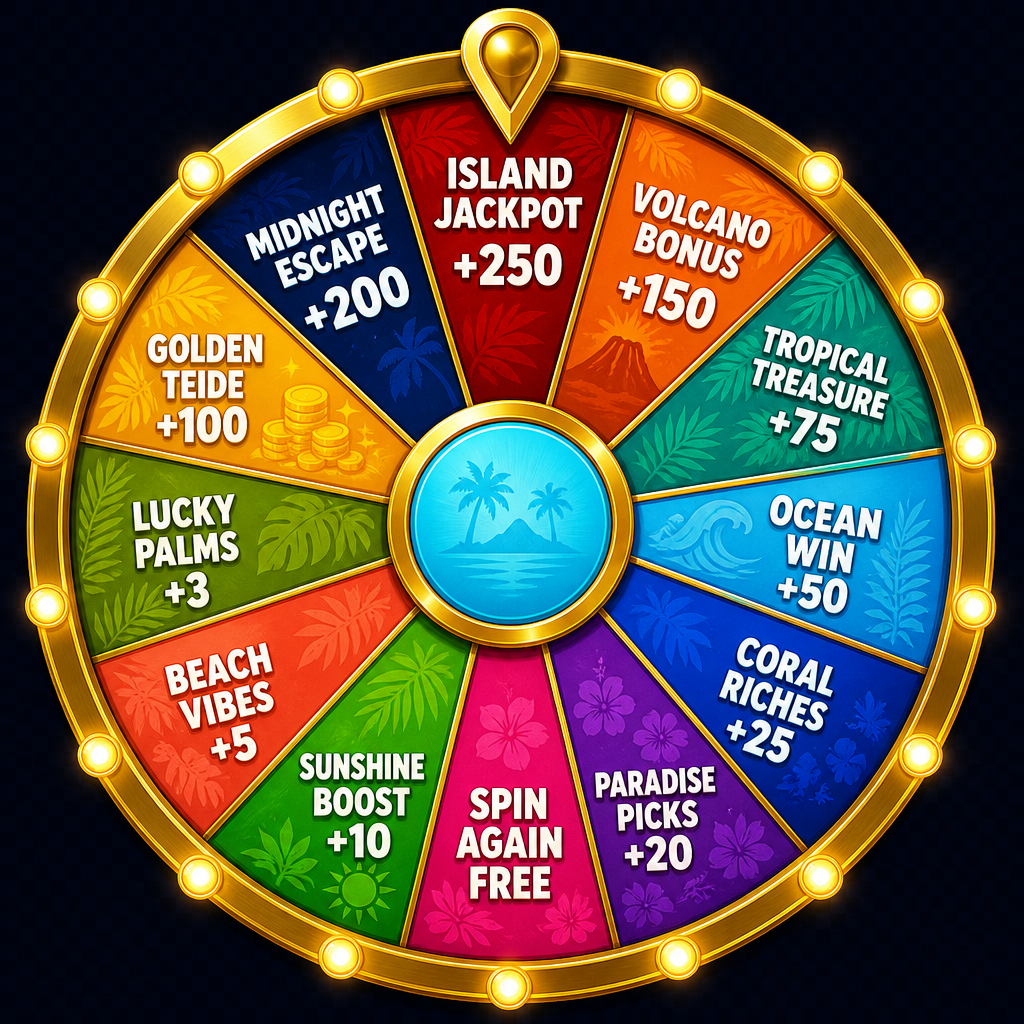
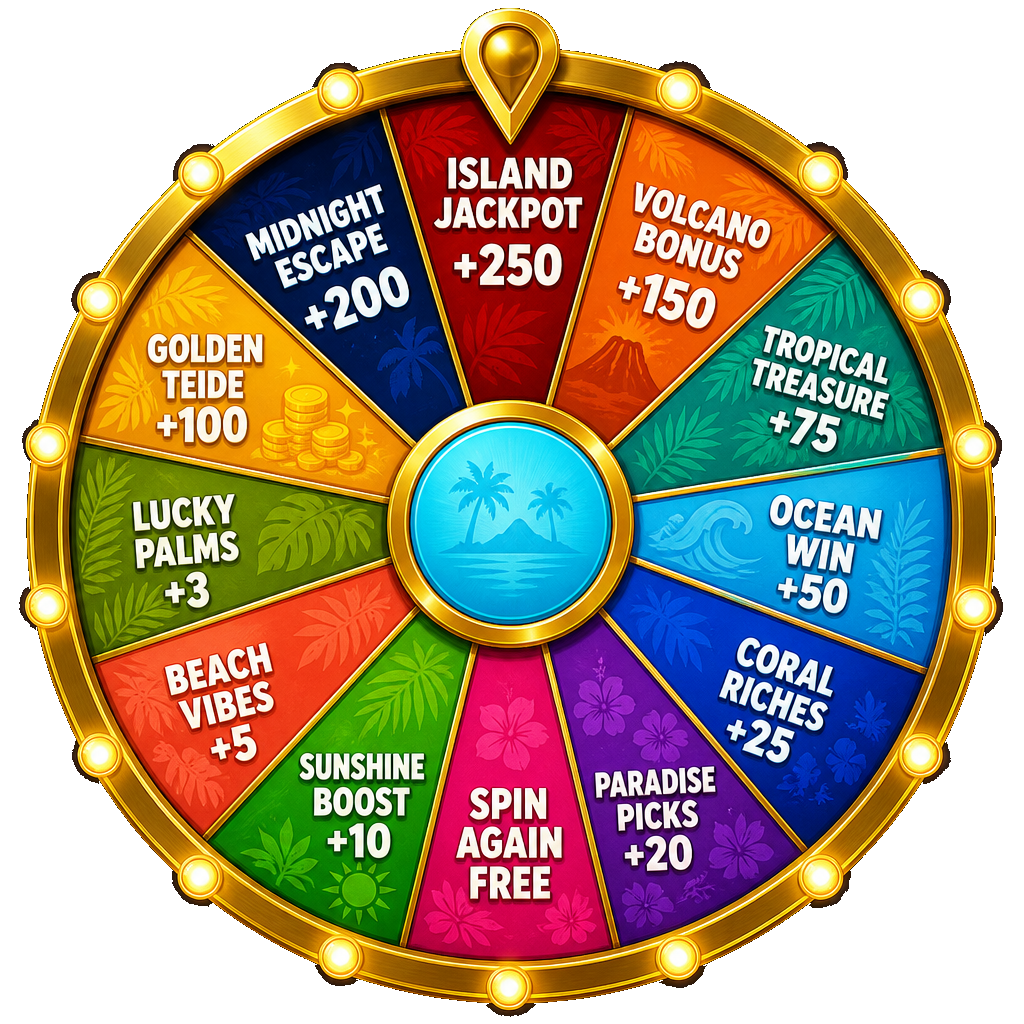
Remove wheel image background, wheel bleeds to card bottom edge

Changed region(s): [[0.0, 0.0, 1.0, 1.0]]

diff --git a/app/page.tsx b/app/page.tsx
@@ -222,37 +222,40 @@ export default function HomePage() {
             LUCKY SPIN PROMO
         ════════════════════════════════════════════════════════════════ */}
         <section className="pb-10 sm:pb-14 lg:pb-16" aria-labelledby="spin-promo-heading">
+          {/* pb-0 so the wheel can bleed to the bottom edge */}
           <div
-            className="rounded-3xl relative overflow-hidden"
+            className="rounded-3xl relative"
             style={{
               background: "linear-gradient(120deg, #080e2a 0%, #0d1c55 55%, #080e2a 100%)",
               border: "1px solid rgba(251,191,36,0.28)",
               boxShadow: "0 8px 48px rgba(251,191,36,0.13), 0 2px 20px rgba(0,0,0,0.35)",
+              overflow: "hidden",
             }}
           >
             {/* Glow blobs */}
-            <div className="absolute top-[-20%] left-[-5%] w-80 h-80 rounded-full opacity-20 pointer-events-none" style={{ background: "#f7ad19", filter: "blur(90px)" }} aria-hidden="true" />
-            <div className="absolute bottom-[-20%] right-[15%] w-64 h-64 rounded-full opacity-10 pointer-events-none" style={{ background: "#429ebd", filter: "blur(70px)" }} aria-hidden="true" />
+            <div className="absolute top-[-10%] left-[5%] w-72 h-72 rounded-full opacity-25 pointer-events-none" style={{ background: "#f7ad19", filter: "blur(80px)" }} aria-hidden="true" />
+            <div className="absolute top-[-10%] right-[20%] w-56 h-56 rounded-full opacity-10 pointer-events-none" style={{ background: "#429ebd", filter: "blur(70px)" }} aria-hidden="true" />
 
-            <div className="relative z-10 flex flex-col lg:flex-row items-center gap-6 lg:gap-0 p-8 sm:p-10 lg:p-0">
+            <div className="relative z-10 flex flex-col lg:flex-row items-end lg:items-stretch">
 
-              {/* Wheel image — flush left on desktop, centred on mobile */}
-              <div className="flex-shrink-0 flex items-center justify-center lg:self-stretch lg:pl-8 lg:py-6">
+              {/* Wheel — bleeds off the bottom on desktop for depth */}
+              <div className="flex-shrink-0 flex items-end justify-center pt-6 px-6 lg:px-0 lg:pt-0 lg:pl-6 lg:self-end">
                 {/* eslint-disable-next-line @next/next/no-img-element */}
                 <img
                   src="/images/spin-wheel-promo.png"
-                  alt="Lucky Spin wheel showing prize segments"
+                  alt="Lucky Spin wheel"
                   style={{
-                    width: "clamp(180px, 22vw, 300px)",
+                    width: "clamp(220px, 26vw, 380px)",
                     height: "auto",
-                    filter: "drop-shadow(0 8px 32px rgba(251,191,36,0.45)) drop-shadow(0 4px 12px rgba(0,0,0,0.5))",
                     display: "block",
+                    marginBottom: "-2px",
+                    filter: "drop-shadow(0 -4px 24px rgba(251,191,36,0.3)) drop-shadow(0 8px 20px rgba(0,0,0,0.4))",
                   }}
                 />
               </div>
 
               {/* Text */}
-              <div className="flex-1 lg:px-10 xl:px-14 lg:py-10">
+              <div className="flex-1 px-8 sm:px-10 lg:px-10 xl:px-14 py-8 sm:py-10 lg:py-12 flex flex-col justify-center">
                 <div className="inline-flex items-center gap-2 px-3 py-1 rounded-full text-xs font-bold uppercase tracking-widest mb-4" style={{ background: "rgba(251,191,36,0.15)", color: "#f7ad19", border: "1px solid rgba(251,191,36,0.3)" }}>
                   ✨ New feature
                 </div>
